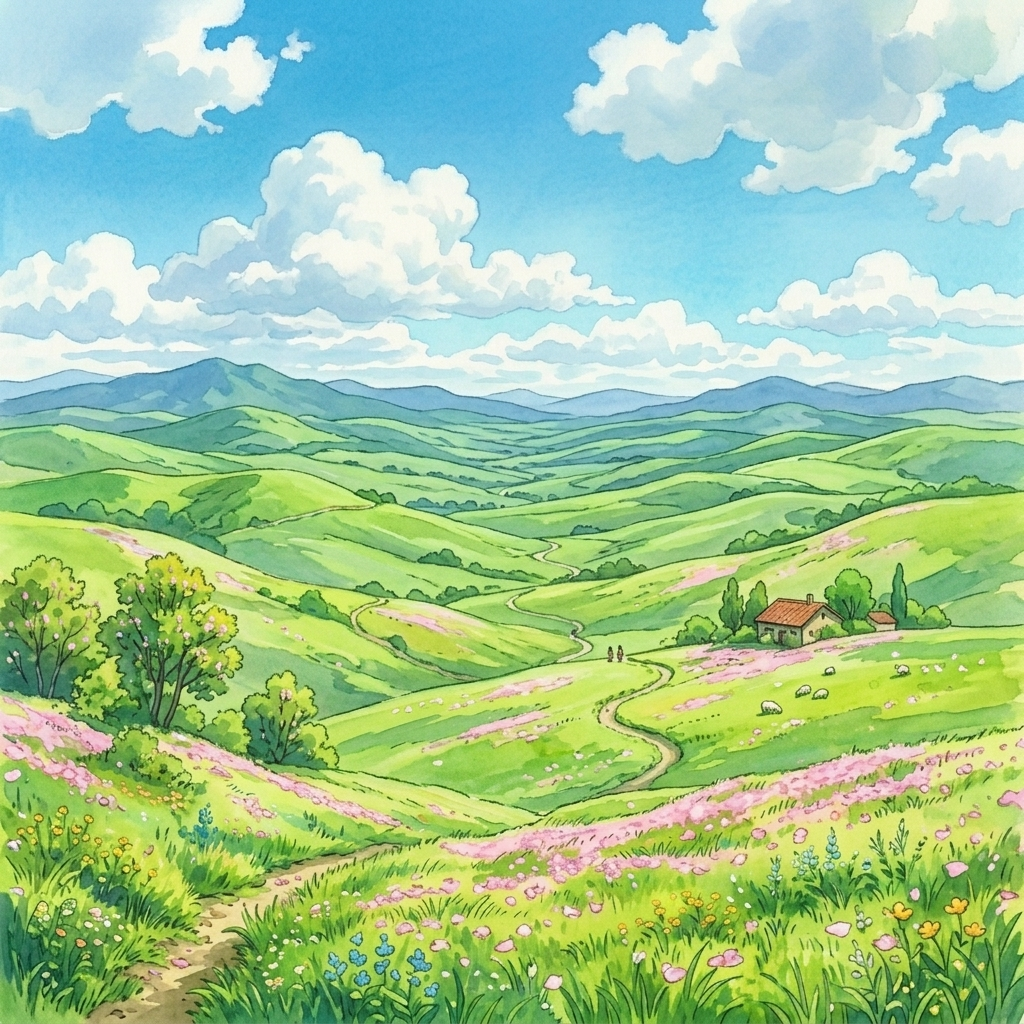
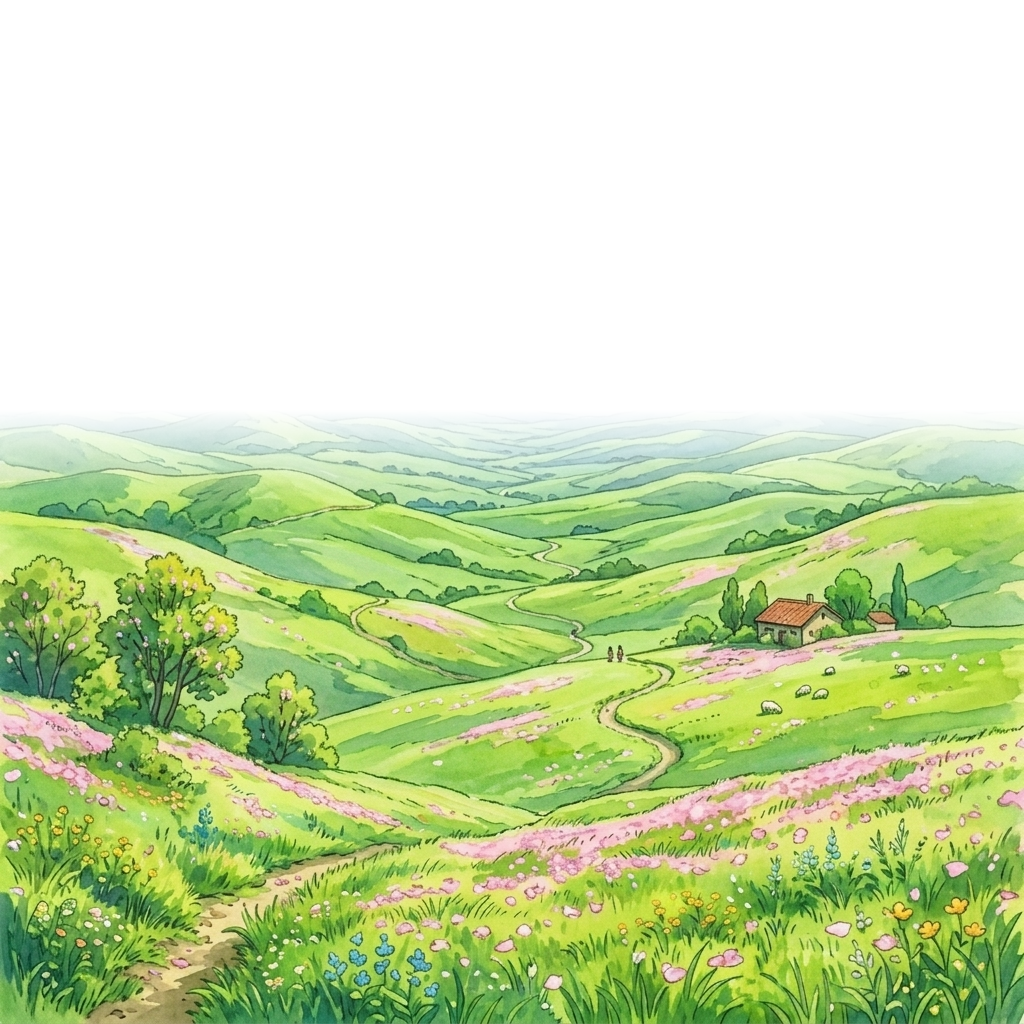
Implement procedural cloud system with dynamic sky colors and transparent terrain horizon

diff --git a/WeatherLIverWallpaper/src/Sandbox/Terrain.cpp b/WeatherLIverWallpaper/src/Sandbox/Terrain.cpp
@@ -26,6 +26,22 @@ namespace Sandbox {
         m_puddleY = m_screenHeight - (m_terrainHeight / 2.0f);
         m_puddleMaxWidth = 400.0f;
         m_puddleMaxHeight = 80.0f;
+
+        GenerateClouds(20); // Generate initial batch of clouds
+    }
+
+    void Terrain::GenerateClouds(int count) {
+        m_clouds.clear();
+        for (int i = 0; i < count; ++i) {
+            Cloud c;
+            c.x = static_cast<float>(rand() % static_cast<int>(m_screenWidth * 1.5f)) - (m_screenWidth * 0.25f);
+            c.y = static_cast<float>(rand() % static_cast<int>(m_screenHeight * 0.5f)); // Top half of screen
+            c.width = 200.0f + static_cast<float>(rand() % 400);
+            c.height = c.width * (0.3f + 0.2f * (rand() % 100) / 100.0f);
+            c.speed = 5.0f + static_cast<float>(rand() % 15);
+            c.opacity = 0.4f + (rand() % 40) / 100.0f;
+            m_clouds.push_back(c);
+        }
     }
 
     void Terrain::SetSkin(const TerrainSkin& skin)
@@ -62,6 +78,42 @@ namespace Sandbox {
         if (m_currentSeason == Season::SUMMER && m_currentWeather != Weather::RAINING) {
             m_puddleFillLevel -= (dryRate * 2.0f) * deltaTime;
             if (m_puddleFillLevel < 0.0f) m_puddleFillLevel = 0.0f;
+        }
+
+        // Update clouds
+        for (auto& c : m_clouds) {
+            c.x += c.speed * deltaTime;
+            if (c.x > m_screenWidth + c.width) {
+                // Wrap around
+                c.x = -c.width;
+                c.y = static_cast<float>(rand() % static_cast<int>(m_screenHeight * 0.5f));
+            }
+        }
+    }
+
+    void Terrain::RenderSky(Graphics::Renderer& renderer) {
+        if (!m_skin.cloudTexture) return;
+
+        // Draw each cloud
+        for (const auto& c : m_clouds) {
+            float opacity = c.opacity;
+            
+            // Adjust cloud appearance based on season
+            if (m_currentSeason == Season::WINTER || m_currentSeason == Season::AUTUMN) {
+                // More dense/overcast looking clouds
+                opacity *= 1.5f; 
+            } else if (m_currentSeason == Season::SPRING) {
+                // Light wispy clouds
+                opacity *= 0.7f;
+            }
+
+            if (opacity > 1.0f) opacity = 1.0f;
+
+            // Draw the cloud texture (snow_flake stretched horizontally)
+            // It acts as a soft white blob. We draw a few overlapping to make it fluffier.
+            renderer.DrawTexture(m_skin.cloudTexture, c.x, c.y, c.width, c.height, opacity);
+            renderer.DrawTexture(m_skin.cloudTexture, c.x + c.width*0.2f, c.y - c.height*0.2f, c.width*0.8f, c.height, opacity*0.8f);
+            renderer.DrawTexture(m_skin.cloudTexture, c.x - c.width*0.1f, c.y + c.height*0.1f, c.width*0.6f, c.height*0.9f, opacity*0.9f);
         }
     }
 

diff --git a/WeatherLIverWallpaper/src/Sandbox/SandboxApp.cpp b/WeatherLIverWallpaper/src/Sandbox/SandboxApp.cpp
@@ -73,7 +73,7 @@ namespace Sandbox {
             m_terrainSkin.grassAutumn = gAutumn;
             m_terrainSkin.grassWinter = gWinter;
             m_terrainSkin.puddleTexture = puddleTex;
-
+            m_terrainSkin.cloudTexture = winter; // Use snow_flake as a soft cloud texture
             m_terrain.Init(width, height);
             m_terrain.SetSkin(m_terrainSkin);
 
@@ -109,7 +109,16 @@ namespace Sandbox {
 
         Season s = m_mainTree.GetSeason();
 
-        // Draw the full-screen scenic background (Terrain layer)
+        // 1. Draw solid sky color based on season
+        if (s == Season::SPRING) renderer.Clear(0.85f, 0.95f, 1.0f); 
+        else if (s == Season::SUMMER) renderer.Clear(0.6f, 0.85f, 1.0f); 
+        else if (s == Season::AUTUMN) renderer.Clear(1.0f, 0.8f, 0.6f); 
+        else if (s == Season::WINTER) renderer.Clear(0.7f, 0.75f, 0.8f);
+
+        // 2. Draw procedural clouds
+        m_terrain.RenderSky(renderer);
+
+        // 3. Draw the transparent scenic background (hills)
         m_terrain.Render(renderer);
 
         // Render the procedural trees

diff --git a/WeatherLIverWallpaper/src/Sandbox/Terrain.h b/WeatherLIverWallpaper/src/Sandbox/Terrain.h
@@ -24,6 +24,16 @@ namespace Sandbox {
         ID2D1Bitmap* grassWinter = nullptr;
 
         ID2D1Bitmap* puddleTexture = nullptr;
+        ID2D1Bitmap* cloudTexture = nullptr;
+    };
+
+    struct Cloud {
+        float x;
+        float y;
+        float width;
+        float height;
+        float speed;
+        float opacity;
     };
 
     class Terrain {
@@ -37,7 +47,10 @@ namespace Sandbox {
         void SetWeather(Weather weather);
 
         void Update(float deltaTime);
+        void RenderSky(Graphics::Renderer& renderer);
         void Render(Graphics::Renderer& renderer);
+
+        void GenerateClouds(int count);
 
     private:
         TerrainSkin m_skin;
@@ -56,6 +69,9 @@ namespace Sandbox {
         float m_puddleY;
         float m_puddleMaxWidth;
         float m_puddleMaxHeight;
+
+        // Clouds
+        std::vector<Cloud> m_clouds;
     };
 
 }
